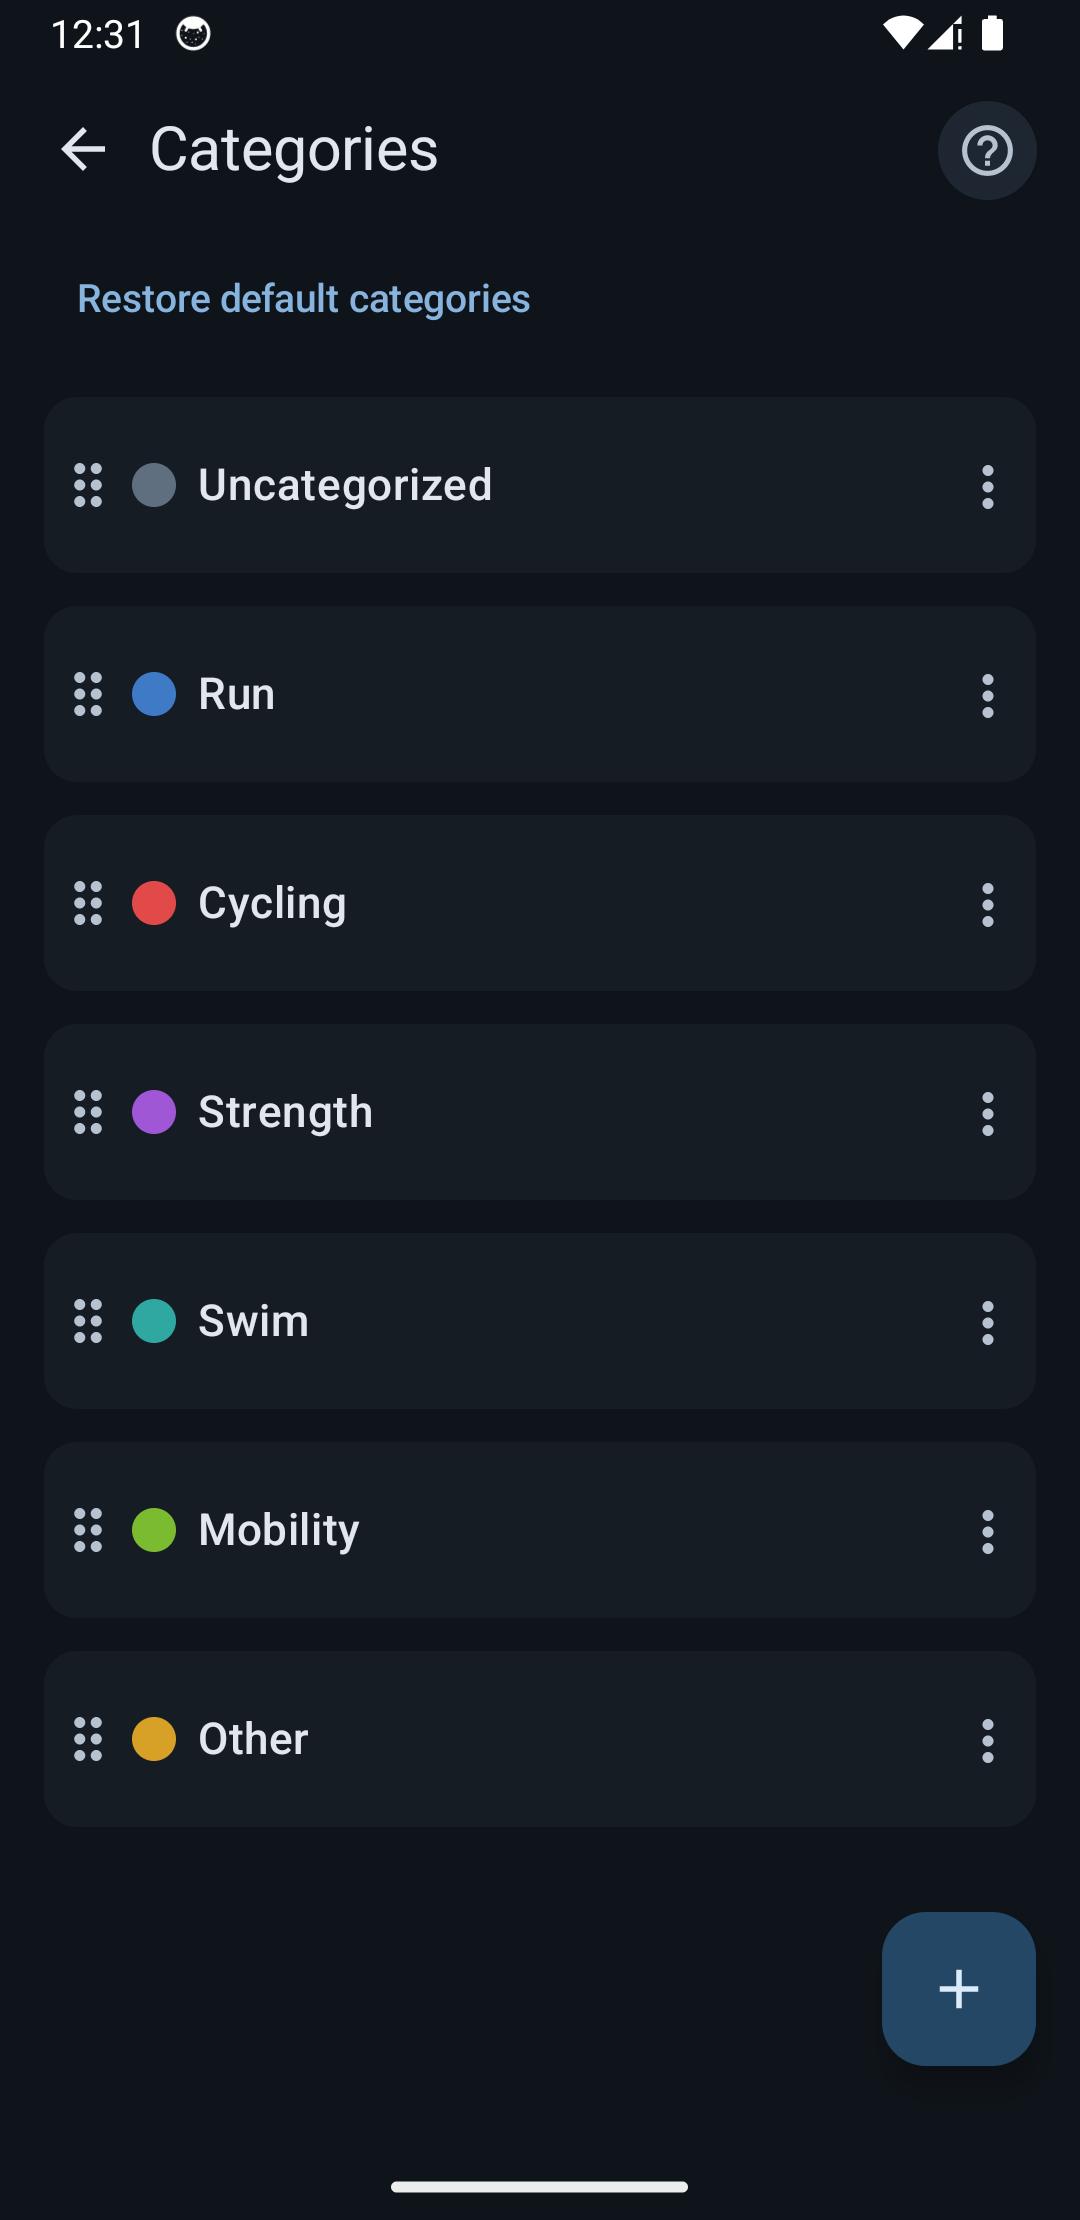
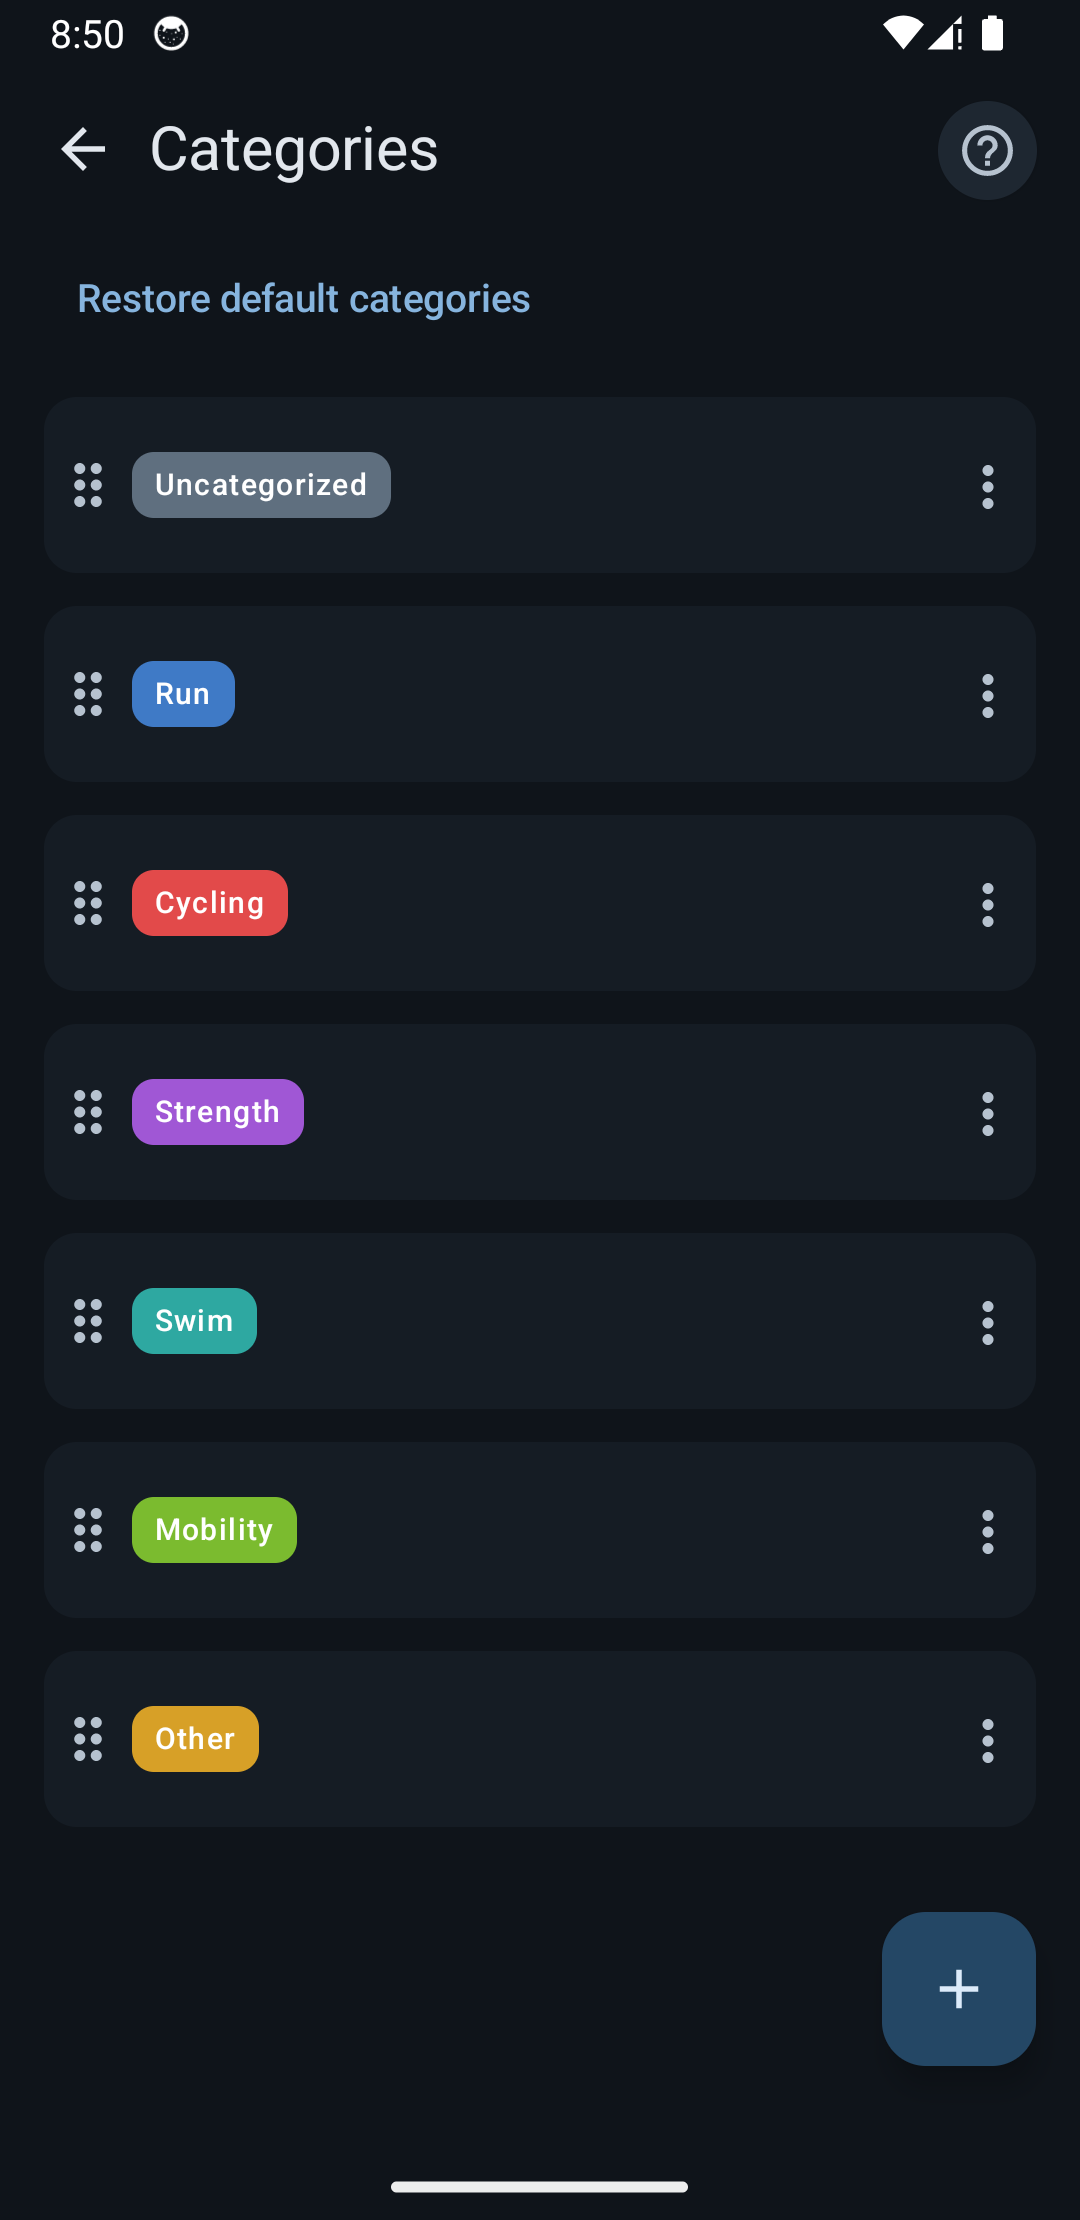
Restore category chips in rows

diff --git a/app/src/main/java/com/rafaelfelipeac/hermes/features/categories/presentation/CategoriesScreen.kt b/app/src/main/java/com/rafaelfelipeac/hermes/features/categories/presentation/CategoriesScreen.kt
@@ -20,7 +20,6 @@ import androidx.compose.foundation.layout.heightIn
 import androidx.compose.foundation.layout.offset
 import androidx.compose.foundation.layout.padding
 import androidx.compose.foundation.layout.size
-import androidx.compose.foundation.layout.width
 import androidx.compose.foundation.lazy.LazyColumn
 import androidx.compose.foundation.lazy.grid.GridCells
 import androidx.compose.foundation.lazy.grid.LazyVerticalGrid
@@ -76,6 +75,7 @@ import com.rafaelfelipeac.hermes.R
 import com.rafaelfelipeac.hermes.core.AppConstants.EMPTY
 import com.rafaelfelipeac.hermes.core.ui.components.DefaultTextFieldKeyboardOptions
 import com.rafaelfelipeac.hermes.core.ui.components.KeyboardAwareDialogForm
+import com.rafaelfelipeac.hermes.core.ui.components.TitleChip
 import com.rafaelfelipeac.hermes.core.ui.components.capitalizedFirstCharacter
 import com.rafaelfelipeac.hermes.core.ui.theme.CategoryColorOption
 import com.rafaelfelipeac.hermes.core.ui.theme.Dimens.BorderThin
@@ -88,13 +88,13 @@ import com.rafaelfelipeac.hermes.core.ui.theme.Dimens.ElevationSm
 import com.rafaelfelipeac.hermes.core.ui.theme.Dimens.FloatingActionContentBottomPadding
 import com.rafaelfelipeac.hermes.core.ui.theme.Dimens.HelpIconGlyphSize
 import com.rafaelfelipeac.hermes.core.ui.theme.Dimens.HelpIconSize
-import com.rafaelfelipeac.hermes.core.ui.theme.Dimens.SmallIconSize
 import com.rafaelfelipeac.hermes.core.ui.theme.Dimens.SpacingLg
 import com.rafaelfelipeac.hermes.core.ui.theme.Dimens.SpacingMd
 import com.rafaelfelipeac.hermes.core.ui.theme.Dimens.SpacingSm
 import com.rafaelfelipeac.hermes.core.ui.theme.Dimens.SpacingXl
 import com.rafaelfelipeac.hermes.core.ui.theme.categoryAccentColor
 import com.rafaelfelipeac.hermes.core.ui.theme.categoryColorOptions
+import com.rafaelfelipeac.hermes.core.ui.theme.contentColorForBackground
 import com.rafaelfelipeac.hermes.features.categories.domain.CategoryDefaults.UNCATEGORIZED_ID
 import com.rafaelfelipeac.hermes.features.categories.presentation.model.CategoryUi
 import kotlin.math.roundToInt
@@ -447,25 +447,16 @@ private fun CategoryRow(
                 )
             }
 
-            Box(
-                modifier =
-                    Modifier
-                        .size(SmallIconSize)
-                        .background(accent, CircleShape),
-            )
-
-            Spacer(modifier = Modifier.width(SpacingMd))
-
             Column(
                 modifier =
                     Modifier
                         .weight(1f)
                         .padding(vertical = SpacingMd),
             ) {
-                Text(
-                    text = category.name,
-                    style = typography.titleMedium,
-                    color = if (category.isHidden) colorScheme.onSurfaceVariant else colorScheme.onSurface,
+                TitleChip(
+                    label = category.name,
+                    containerColor = accent,
+                    contentColor = contentColorForBackground(accent),
                 )
                 if (category.isHidden) {
                     Text(

diff --git a/LEARNING.md b/LEARNING.md
@@ -685,3 +685,4 @@ Recent learnings:
 - Small affordances should follow the same quiet surface language as larger cards. The Home TBD help button stays discoverable with a border and icon while avoiding another filled bubble competing with workout rows.
 - Dialog fields should not introduce a different visual accent language from the screen that opened them. Using quiet field fills and outline-variant borders keeps forms readable without making every inactive field look like a selected state.
 - A final screenshot pass needs explicit navigation target verification, not just scripted taps. Bottom navigation hit areas sit above the gesture bar, so regression captures should confirm the destination title before treating files as valid.
+- Categories still benefit from the established `TitleChip` pattern even after the row shell becomes quieter. Pairing color and name in one chip keeps category identity consistent with workout rows, event cards, and picker fields.

diff --git a/docs/plans/2026-09-16-ui-refactor-plan.md b/docs/plans/2026-09-16-ui-refactor-plan.md
@@ -20,7 +20,7 @@
 
 ## Wave 1 Status
 - Finished Categories list refactor first.
-- Added individual quiet row cards, drag handles, overflow actions, and atomic move-to-position support.
+- Added individual quiet row cards, drag handles, category chips, overflow actions, and atomic move-to-position support.
 - Added accessible up/down menu actions while keeping existing edit, visibility, and delete flows.
 - Verified light and dark Categories screens, including protected and regular category overflow menus.
 
